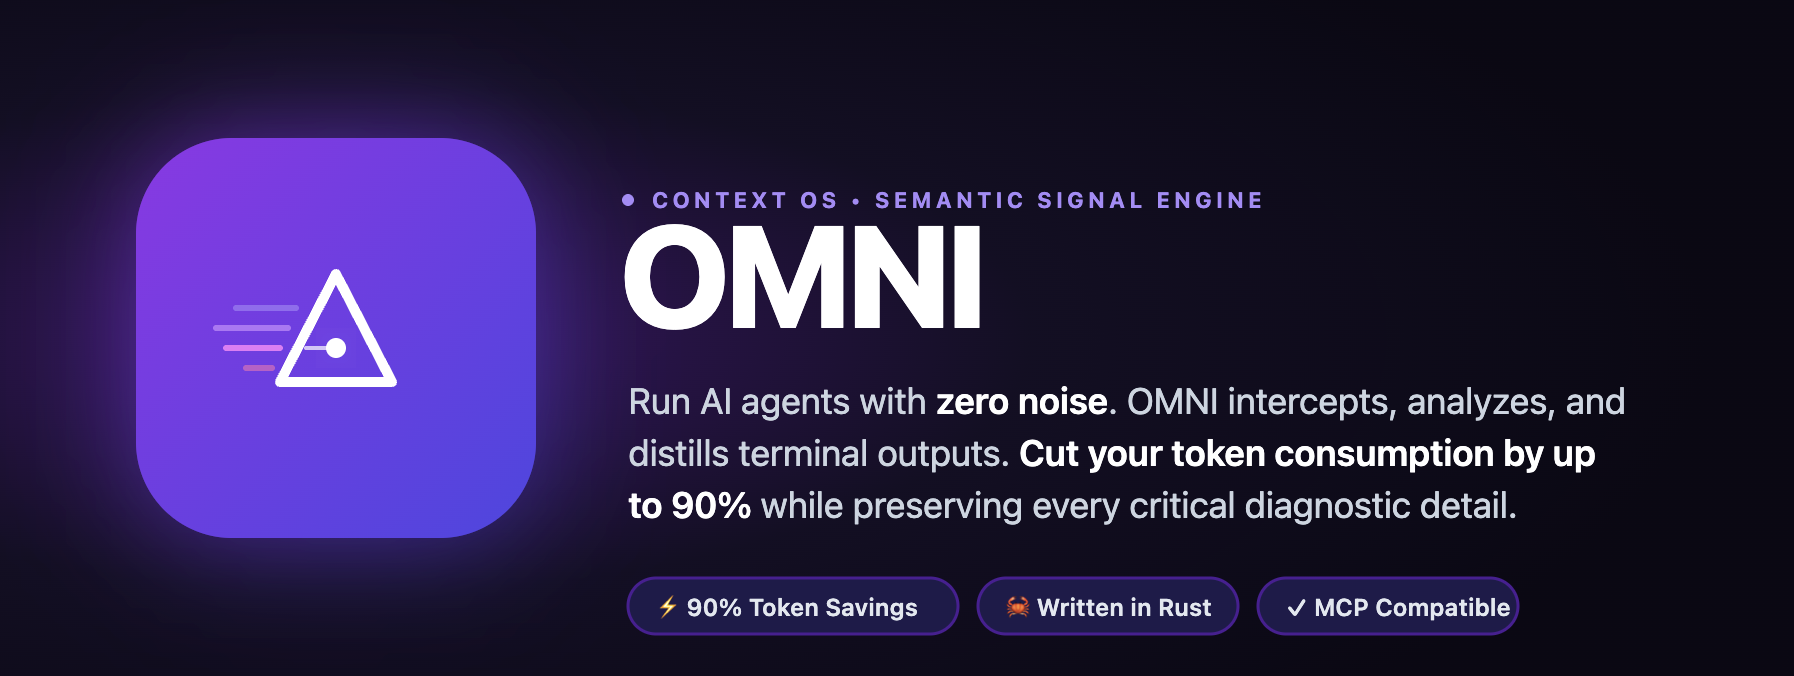
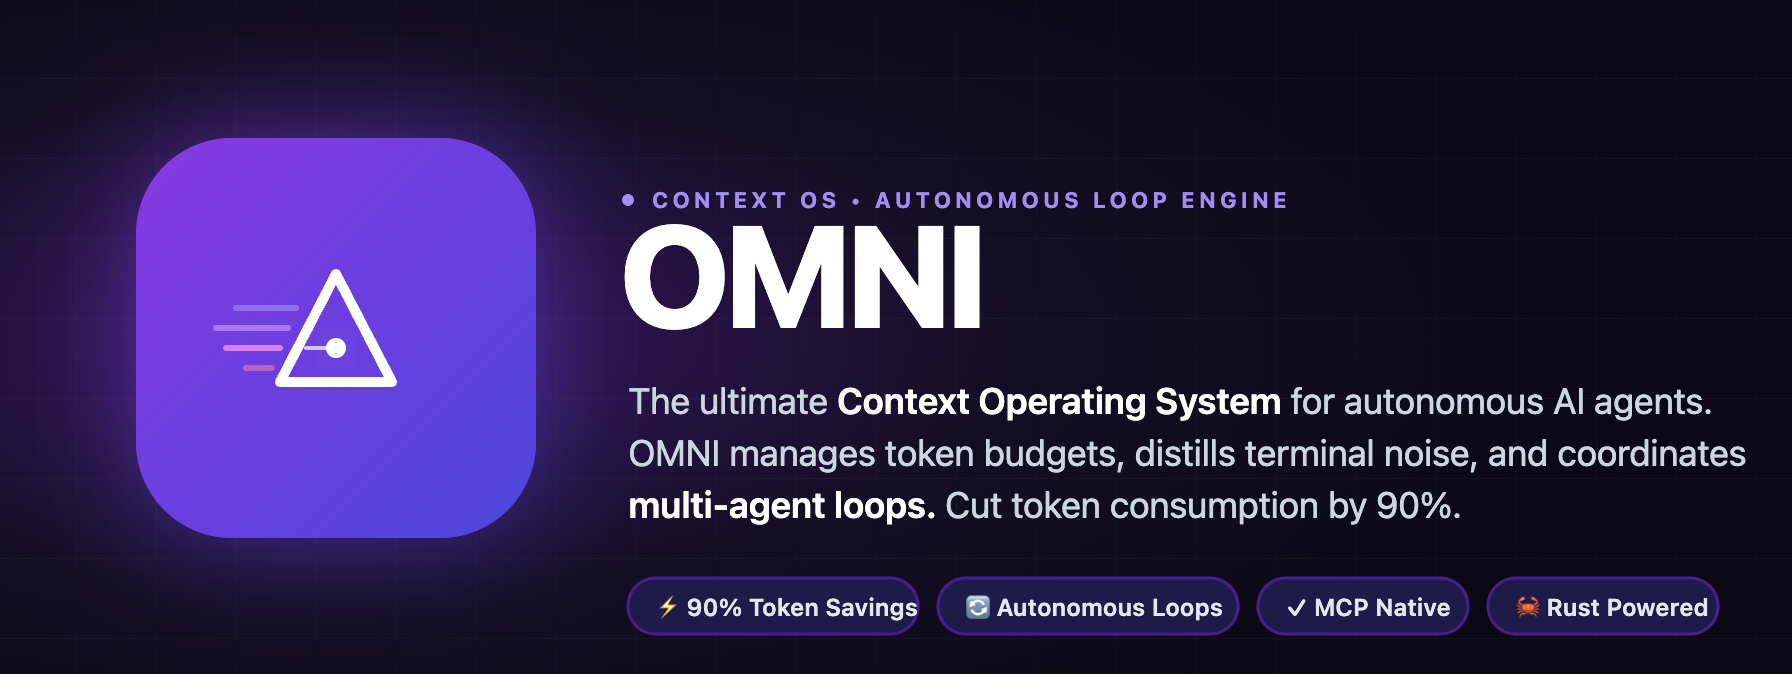
feat: add v0.6.0 documentation, update hero content for autonomous loops, and implement SEO/LLM-specific metadata

diff --git a/src/content/blog/omni-update-v0-6-0-autonomous-loops.md b/src/content/blog/omni-update-v0-6-0-autonomous-loops.md
@@ -1,0 +1,31 @@
+---
+title: "Autonomous Loop Engineering: OMNI v0.6.0"
+description: "OMNI v0.6.0 introduces Autonomous Loop Engineering, Maker-Checker Verification, and critical UTF-8 panic resolution for production-grade Agentic AI."
+date: 2026-06-14
+tag: Release Note
+author: OMNI Core Team
+---
+
+We are thrilled to announce the release of **OMNI v0.6.0**! This milestone release marks a massive step forward in autonomous agent orchestration and production stability, bringing multi-agent loops and zero-allocation performance to your terminal.
+
+### Autonomous Loop Engineering
+
+OMNI now provides native support for iterative, autonomous agent loops using `OMNI_LOOP_BUDGET` and `OMNI_LOOP_GOAL` environment variables. This enables predictive goal-driven constraints that automatically scale distillation based on your task—letting you orchestrate long-running agents with complete confidence.
+
+### Maker-Checker Verification Pattern
+
+Scale your tasks cleanly by separating execution from validation. We have introduced the `omni_verify` MCP tool to securely facilitate the Maker-Checker verification pattern across distinct agent sessions, drastically improving multi-agent task reliability.
+
+### Zero-Allocation ANSI & Production Hardening
+
+Performance and stability remain at the core of OMNI:
+- **Zero-Allocation ANSI Stripping**: We redesigned `strip_ansi` to use `Cow<'_, str>`, eliminating heap allocations entirely when processing clean terminal outputs.
+- **Critical UTF-8 Panic Resolution**: Completely resolved `SIGABRT` crashes caused by multibyte characters (emojis, box-drawing, CJK) in terminal output with new `char`-boundary safe slicing utilities.
+- **Stream-Aware Output Limits**: The new `TruncatingWriter` pipeline intelligently tracks payload bytes on the fly, eliminating OOM vulnerabilities on massive terminal bursts.
+- **Release Stability**: Removed `panic = "abort"` from the release profile to allow `catch_unwind` guards to gracefully handle unexpected panics in production builds.
+
+### Consolidated Documentation & Testing
+
+We have unified scattered templates into a cohesive `docs/LOOP_ENGINEERING.md` master guide, detailing the new multi-agent orchestration capabilities. Furthermore, our test suite has been modernized, renaming all sprint-based tests and achieving 100% coverage across 941 tests!
+
+Update to OMNI v0.6.0 today by running `omni update` and experience the ultimate Context Operating System.
